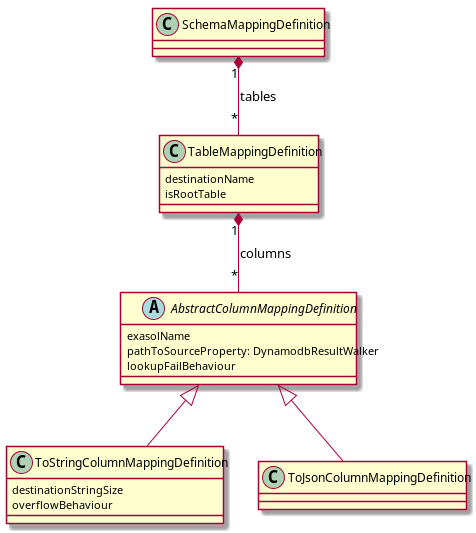
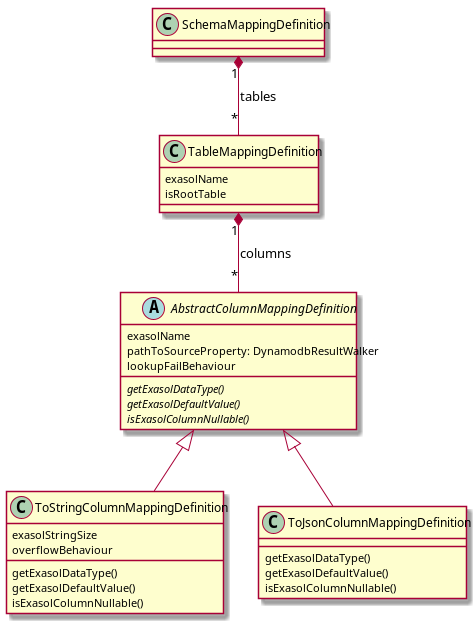
updated diagrams + small refactoring

Changed region(s): [[0.0, 0.1501, 1.0, 0.9906], [0.2941, 0.0, 0.7059, 0.1501]]

diff --git a/src/main/java/com/exasol/adapter/dynamodb/mapping/JsonMappingFactory.java b/src/main/java/com/exasol/adapter/dynamodb/mapping/JsonMappingFactory.java
@@ -79,7 +79,8 @@ public class JsonMappingFactory implements MappingDefinitionFactory {
         } else {
             final File[] files = definitionsPath.listFiles((file, fileName) -> fileName.endsWith(jsonFileEnding));
             if (files == null || files.length == 0) {
-                throw new AdapterException("No schema mapping files found in " + definitionsPath + ". Please check that you definition files have a .json ending and are uploaded to the BucketFS path that was specified in the MAPPING property.");
+                throw new AdapterException("No schema mapping files found in " + definitionsPath
+                        + ". Please check that you definition files have a .json ending and are uploaded to the BucketFS path that was specified in the MAPPING property.");
             }
             return files;
         }
@@ -114,7 +115,8 @@ public class JsonMappingFactory implements MappingDefinitionFactory {
         switch (getMappingType(definition)) {
         case TO_STRING_MAPPING_KEY:
             if (isRootLevel) {
-                throw new MappingException("ToStringMapping is not allowed at root level. You probably want to replace it with a \"fields\" definition.");
+                throw new MappingException(
+                        "ToStringMapping is not allowed at root level. You probably want to replace it with a \"fields\" definition.");
             }
             addStringColumn(definition.getJsonObject(TO_STRING_MAPPING_KEY), walkerToThisPath, tableBuilder,
                     propertyName);
@@ -197,7 +199,8 @@ public class JsonMappingFactory implements MappingDefinitionFactory {
             throws MappingException {
         final String destinationColumnName = definition.getString(DEST_NAME_KEY, defaultValue);
         if (destinationColumnName == null) {
-            throw new MappingException(DEST_NAME_KEY + " is mandatory in this definition. Pleas set it to the desired name for the Exasol column.");
+            throw new MappingException(DEST_NAME_KEY
+                    + " is mandatory in this definition. Pleas set it to the desired name for the Exasol column.");
         }
         return destinationColumnName.toUpperCase();
     }

diff --git a/src/main/java/com/exasol/adapter/dynamodb/mapping/TableMappingDefinition.java b/src/main/java/com/exasol/adapter/dynamodb/mapping/TableMappingDefinition.java
@@ -10,13 +10,13 @@ import java.util.List;
  * from a nested list or object. See {@link #isRootTable()} for details.
  */
 public class TableMappingDefinition {
-    private final String destinationName;
+    private final String exasolName;
     private final boolean isRootTable;
     private final List<AbstractColumnMappingDefinition> columns;
 
-    private TableMappingDefinition(final String destinationName, final boolean isRootTable,
+    private TableMappingDefinition(final String exasolName, final boolean isRootTable,
             final List<AbstractColumnMappingDefinition> columns) {
-        this.destinationName = destinationName;
+        this.exasolName = exasolName;
         this.isRootTable = isRootTable;
         this.columns = columns;
     }
@@ -37,8 +37,8 @@ public class TableMappingDefinition {
      * 
      * @return name of the Exasol table
      */
-    public String getDestinationName() {
-        return this.destinationName;
+    public String getExasolName() {
+        return this.exasolName;
     }
 
     /**
@@ -64,12 +64,12 @@ public class TableMappingDefinition {
      * Builder for {@link TableMappingDefinition}
      */
     public static class Builder {
-        private final String destName;
+        private final String exasolName;
         private final boolean isRootTable;
         private final List<AbstractColumnMappingDefinition> columns = new ArrayList<>();
 
-        private Builder(final String destName, final boolean isRootTable) {
-            this.destName = destName;
+        private Builder(final String exasolName, final boolean isRootTable) {
+            this.exasolName = exasolName;
             this.isRootTable = isRootTable;
         }
 
@@ -90,7 +90,7 @@ public class TableMappingDefinition {
          * @return {@link TableMappingDefinition}
          */
         public TableMappingDefinition build() {
-            return new TableMappingDefinition(this.destName, this.isRootTable,
+            return new TableMappingDefinition(this.exasolName, this.isRootTable,
                     Collections.unmodifiableList(this.columns));
         }
     }

diff --git a/src/test/java/com/exasol/adapter/dynamodb/mapping/JsonMappingFactoryTest.java b/src/test/java/com/exasol/adapter/dynamodb/mapping/JsonMappingFactoryTest.java
@@ -45,7 +45,7 @@ public class JsonMappingFactoryTest {
         final ToStringColumnMappingDefinition nameColumn = (ToStringColumnMappingDefinition) columns.stream()
                 .filter(column -> column.getExasolName().equals("NAME")).findAny().get();
         assertAll(() -> assertThat(tables.size(), equalTo(1)), //
-                () -> assertThat(table.getDestinationName(), equalTo("BOOKS")),
+                () -> assertThat(table.getExasolName(), equalTo("BOOKS")),
                 () -> assertThat(columnNames, containsInAnyOrder("ISBN", "NAME", "AUTHOR_NAME")),
                 () -> assertThat(isbnColumn.getExasolStringSize(), equalTo(20)),
                 () -> assertThat(isbnColumn.getOverflowBehaviour(),
@@ -68,7 +68,7 @@ public class JsonMappingFactoryTest {
         final List<String> columnNames = columns.stream().map(AbstractColumnMappingDefinition::getExasolName)
                 .collect(Collectors.toList());
         assertAll(() -> assertThat(tables.size(), equalTo(1)), //
-                () -> assertThat(table.getDestinationName(), equalTo("BOOKS")),
+                () -> assertThat(table.getExasolName(), equalTo("BOOKS")),
                 () -> assertThat(columnNames, containsInAnyOrder("ISBN", "NAME", "TOPICS")));
     }
 
@@ -80,7 +80,7 @@ public class JsonMappingFactoryTest {
         assertAll(() -> assertThat(exception.getCausingMappingDefinitionFileName(), equalTo(fileName)),
                 () -> assertThat(exception.getMessage(),
                         equalTo("Error in schema mapping invalidToStringMappingAtRootLevel.json:")),
-                () -> assertThat(exception.getCause().getMessage(),
-                        equalTo("ToStringMapping is not allowed at root level. You probably want to replace it with a \"fields\" definition.")));
+                () -> assertThat(exception.getCause().getMessage(), equalTo(
+                        "ToStringMapping is not allowed at root level. You probably want to replace it with a \"fields\" definition.")));
     }
 }

diff --git a/src/main/java/com/exasol/adapter/dynamodb/mapping/AbstractColumnMappingDefinition.java b/src/main/java/com/exasol/adapter/dynamodb/mapping/AbstractColumnMappingDefinition.java
@@ -13,8 +13,8 @@ import com.exasol.sql.rendering.StringRendererConfig;
  * <p>
  * Each instance of this class represents one column in the Exasol table. Objects of this class get serialized into the
  * column adapter notes. They are created using a {@link MappingDefinitionFactory}. Storing the Mapping definition is
- * necessary as mapping definition files in BucketFS could be changed, but the mapping must not be changed until a {@code REFRESH} statement
- * is called.
+ * necessary as mapping definition files in BucketFS could be changed, but the mapping must not be changed until a
+ * {@code REFRESH} statement is called.
  * </p>
  */
 public abstract class AbstractColumnMappingDefinition implements Serializable {

diff --git a/src/main/java/com/exasol/bucketfs/BucketfsFileFactory.java b/src/main/java/com/exasol/bucketfs/BucketfsFileFactory.java
@@ -30,7 +30,8 @@ public class BucketfsFileFactory {
             final String absolute;
             absolute = file.getCanonicalPath();
             if (!absolute.startsWith(BUCKETFS_BASIC_PATH)) {
-                throw new BucketfsPathException("Given path (" + file.getCanonicalPath() + ") is outside of bucketfs.", file.getCanonicalPath());
+                throw new BucketfsPathException("Given path (" + file.getCanonicalPath() + ") is outside of bucketfs.",
+                        file.getCanonicalPath());
             }
         } catch (final IOException e) {
             throw new BucketfsPathException("Error in file path: " + file.getAbsolutePath(), file.getAbsolutePath());

diff --git a/src/main/java/com/exasol/adapter/dynamodb/queryresultschema/QueryResultTableSchemaBuilder.java b/src/main/java/com/exasol/adapter/dynamodb/queryresultschema/QueryResultTableSchemaBuilder.java
@@ -67,9 +67,8 @@ public class QueryResultTableSchemaBuilder {
                     this.resultColumns.add(columnMappingDefinition);
                 }
             } catch (final IOException | ClassNotFoundException exception) {
-                throw new AdapterException(
-                        "Failed parsing query failed. Cause: could not parse schema. Cause by " + exception.getMessage(),
-                        exception);
+                throw new AdapterException("Failed parsing query failed. Cause: could not parse schema. Cause by "
+                        + exception.getMessage(), exception);
             }
         }
 

diff --git a/src/main/java/com/exasol/adapter/dynamodb/DynamodbAdapterProperties.java b/src/main/java/com/exasol/adapter/dynamodb/DynamodbAdapterProperties.java
@@ -35,8 +35,8 @@ public class DynamodbAdapterProperties {
      */
     public String getMappingDefinition() throws AdapterException {
         if (!this.hasMappingDefinition()) {
-            throw new AdapterException(
-                    MAPPING_KEY + " is mandatory. Please set MAPPING to the path to your schema mapping files on BucketFS.");
+            throw new AdapterException(MAPPING_KEY
+                    + " is mandatory. Please set MAPPING to the path to your schema mapping files on BucketFS.");
         }
         final String property = this.properties.get(MAPPING_KEY);
         if (property.isEmpty()) {

diff --git a/src/main/java/com/exasol/adapter/dynamodb/mapping/SchemaMappingDefinitionToSchemaMetadataConverter.java b/src/main/java/com/exasol/adapter/dynamodb/mapping/SchemaMappingDefinitionToSchemaMetadataConverter.java
@@ -37,7 +37,7 @@ public class SchemaMappingDefinitionToSchemaMetadataConverter {
             columnDefinitions.add(convertColumn(column));
         }
         final String adapterNotes = "";// Due to a bug in exasol core adapter notes are not stored for tables
-        return new TableMetadata(tableMappingDefinition.getDestinationName(), adapterNotes, columnDefinitions, "");
+        return new TableMetadata(tableMappingDefinition.getExasolName(), adapterNotes, columnDefinitions, "");
     }
 
     private ColumnMetadata convertColumn(final AbstractColumnMappingDefinition columnMappingDefinition)

diff --git a/src/main/java/com/exasol/adapter/dynamodb/DynamodbAdapter.java b/src/main/java/com/exasol/adapter/dynamodb/DynamodbAdapter.java
@@ -82,7 +82,8 @@ public class DynamodbAdapter implements VirtualSchemaAdapter {
             }
             return file;
         } catch (final BucketfsPathException exception) {
-            throw new AdapterException("Could not open mapping definition. Cause: " + exception.getMessage(), exception);
+            throw new AdapterException("Could not open mapping definition. Cause: " + exception.getMessage(),
+                    exception);
         }
     }
 
